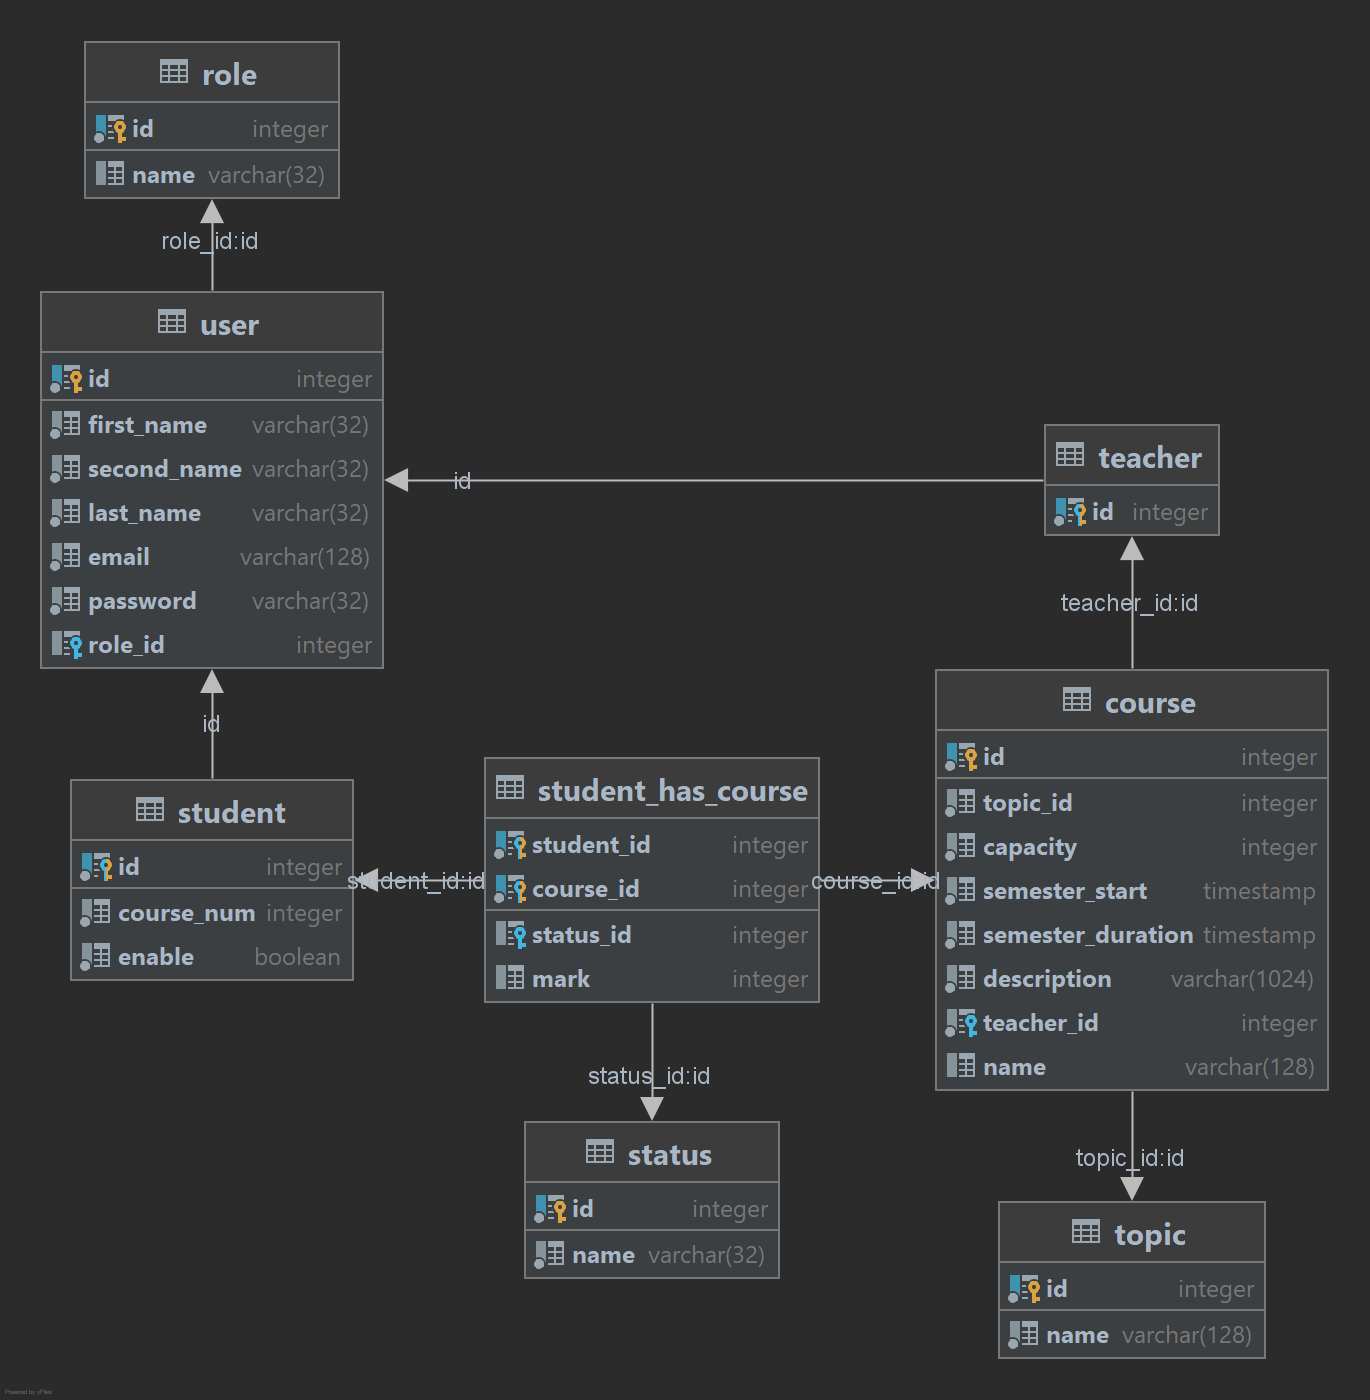
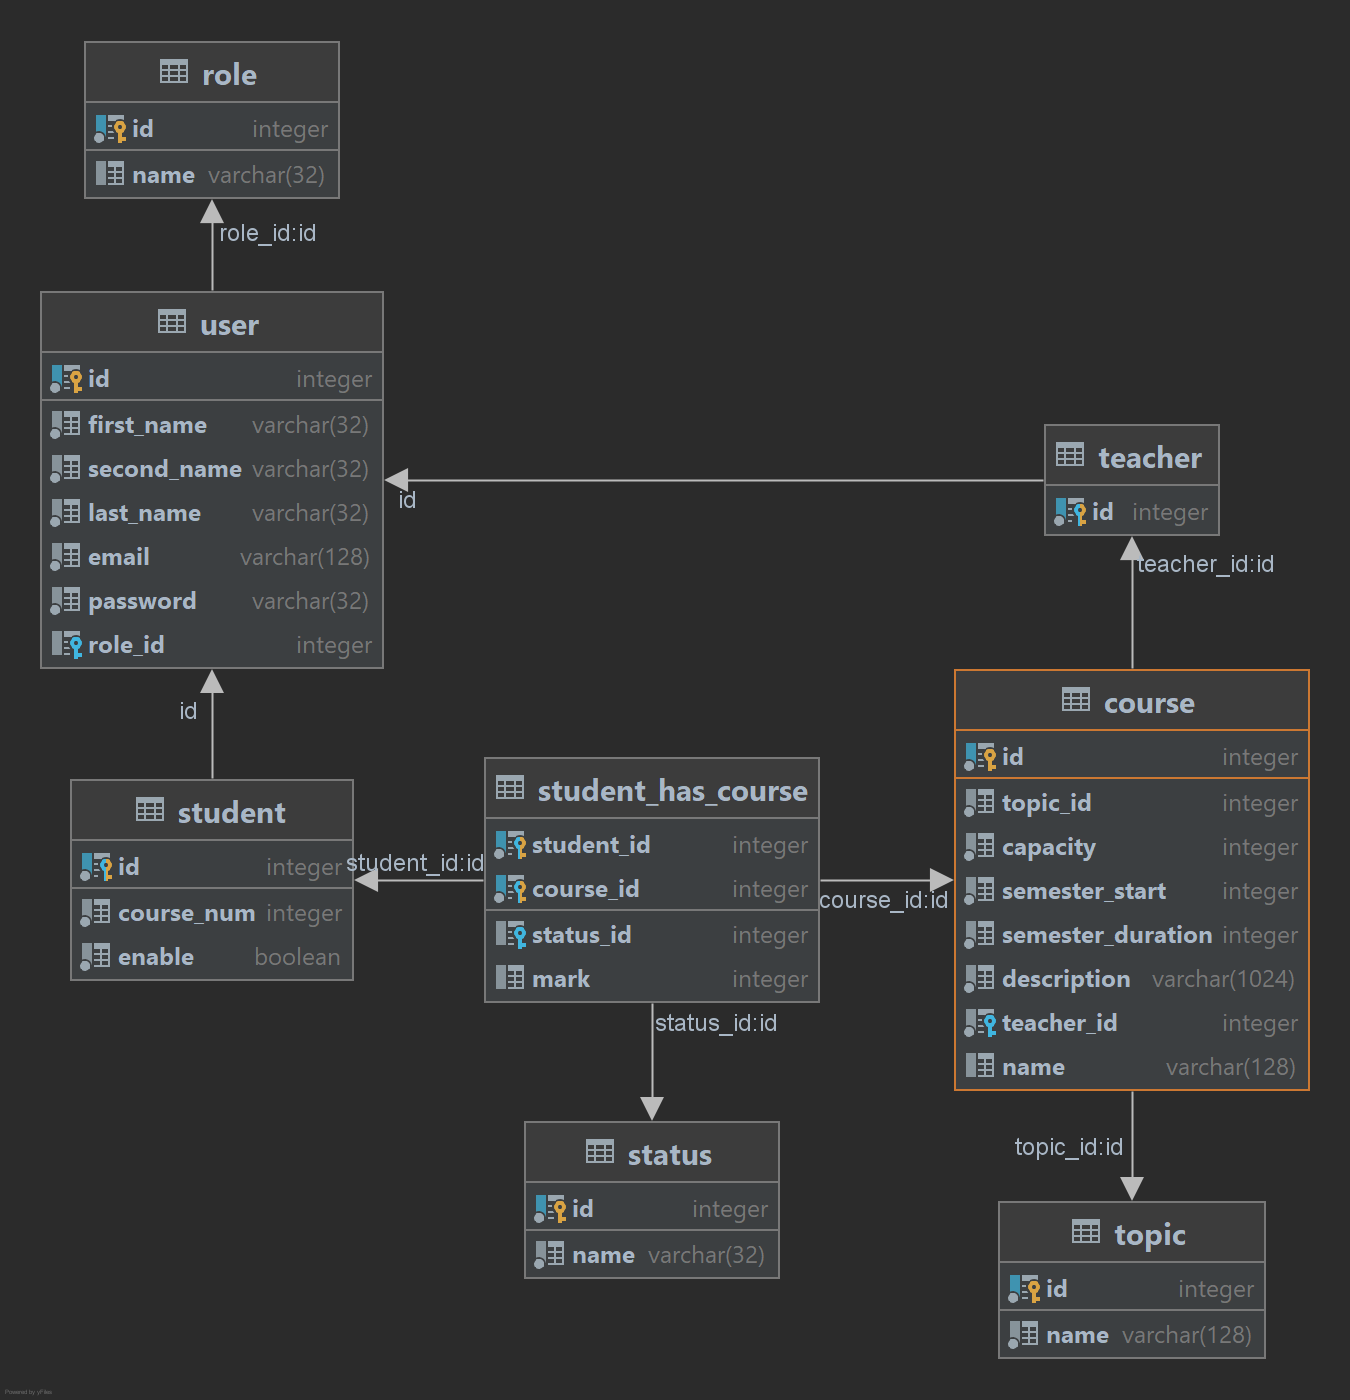
create entety; fix database

diff --git a/faculty/src/main/java/com/example/faculty/entety/Course.java b/faculty/src/main/java/com/example/faculty/entety/Course.java
@@ -1,0 +1,45 @@
+package com.example.faculty.entety;
+
+import lombok.EqualsAndHashCode;
+import lombok.Getter;
+import lombok.Setter;
+import lombok.ToString;
+
+import javax.persistence.*;
+
+@Entity
+@Table(name = "course")
+@Getter
+@Setter
+@ToString
+@EqualsAndHashCode
+public class Course {
+
+    @Id
+    @Column(name = "id")
+    @GeneratedValue(strategy = GenerationType.IDENTITY)
+    private int id;
+
+    @ManyToOne(fetch = FetchType.EAGER)
+    @JoinColumn(name = "topic_id")
+    private Topic topic;
+
+    @Column(name = "capacity")
+    private int capacity;
+
+    @Column(name = "semester_start")
+    private int semesterStart;
+
+    @Column(name = "semester_duration")
+    private int semesterDuration;
+
+    @Column(name = "description")
+    private String description;
+
+    @ManyToOne(fetch = FetchType.EAGER)
+    @JoinColumn(name = "teacher_id")
+    private Teacher teacher;
+
+    @Column(name = "name")
+    private String name;
+}

diff --git a/faculty/src/main/java/com/example/faculty/entety/User.java b/faculty/src/main/java/com/example/faculty/entety/User.java
@@ -1,0 +1,40 @@
+package com.example.faculty.entety;
+
+import lombok.*;
+
+import javax.persistence.*;
+
+@Entity
+@Table(name = "user")
+@Inheritance(strategy=InheritanceType.JOINED)
+@NoArgsConstructor
+@Getter
+@Setter
+@ToString
+@EqualsAndHashCode
+abstract public class User {
+    @Id
+    @Column(name = "id")
+    @GeneratedValue(strategy = GenerationType.IDENTITY)
+    private int id;
+
+    @Column(name = "first_name")
+    private String firstName;
+
+    @Column(name = "second_name")
+    private String secondName;
+
+    @Column(name = "last_name")
+    private String lastName;
+
+    @Column(name = "email")
+    private String email;
+
+    @Column(name = "password")
+    private String password;
+
+    @ManyToOne(fetch = FetchType.EAGER)
+    @JoinColumn(name="role_id")
+    private Role role;
+
+}

diff --git a/faculty/src/main/java/com/example/faculty/entety/Status.java b/faculty/src/main/java/com/example/faculty/entety/Status.java
@@ -1,0 +1,32 @@
+package com.example.faculty.entety;
+
+import lombok.EqualsAndHashCode;
+import lombok.Getter;
+import lombok.Setter;
+import lombok.ToString;
+
+import javax.persistence.*;
+import java.util.List;
+
+@Entity
+@Table(name="status")
+@Getter
+@Setter
+@ToString
+@EqualsAndHashCode
+public class Status {
+
+    @Id
+    @Column(name = "id")
+    @GeneratedValue(strategy = GenerationType.IDENTITY)
+    private int id;
+
+    @Column(name="name")
+    private String name;
+
+    @OneToMany(mappedBy = "status")
+    @ToString.Exclude
+    @EqualsAndHashCode.Exclude
+    private List<StudentHasCourse> studentHasCourses;
+
+}

diff --git a/faculty/src/main/java/com/example/faculty/entety/Topic.java b/faculty/src/main/java/com/example/faculty/entety/Topic.java
@@ -1,0 +1,30 @@
+package com.example.faculty.entety;
+
+import lombok.EqualsAndHashCode;
+import lombok.Getter;
+import lombok.Setter;
+import lombok.ToString;
+
+import javax.persistence.*;
+import java.util.List;
+
+@Entity
+@Table(name="topic")
+@Getter
+@Setter
+@ToString
+@EqualsAndHashCode
+public class Topic {
+    @Id
+    @GeneratedValue(strategy = GenerationType.IDENTITY)
+    @Column(name = "id")
+    private int id;
+
+    @Column(name="name")
+    private String name;
+
+    @OneToMany(mappedBy = "topic")
+    @ToString.Exclude
+    @EqualsAndHashCode.Exclude
+    private List<Course> courses;
+}

diff --git a/faculty/src/main/java/com/example/faculty/entety/Role.java b/faculty/src/main/java/com/example/faculty/entety/Role.java
@@ -1,0 +1,30 @@
+package com.example.faculty.entety;
+
+import lombok.EqualsAndHashCode;
+import lombok.Getter;
+import lombok.Setter;
+import lombok.ToString;
+
+import javax.persistence.*;
+import java.util.List;
+
+@Entity
+@Table(name="role")
+@Getter
+@Setter
+@ToString
+@EqualsAndHashCode
+public class Role {
+    @Id
+    @Column(name = "id")
+    @GeneratedValue(strategy = GenerationType.IDENTITY)
+    private int id;
+
+    @Column(name="name")
+    private String name;
+
+    @OneToMany(mappedBy = "role")
+    @ToString.Exclude
+    @EqualsAndHashCode.Exclude
+    private List<User> users;
+}

diff --git a/faculty/src/main/java/com/example/faculty/entety/StudentHasCourse.java b/faculty/src/main/java/com/example/faculty/entety/StudentHasCourse.java
@@ -1,0 +1,29 @@
+package com.example.faculty.entety;
+
+import lombok.EqualsAndHashCode;
+import lombok.Getter;
+import lombok.Setter;
+import lombok.ToString;
+
+import javax.persistence.*;
+
+@Entity
+@Table(name="student_has_course")
+@Getter
+@Setter
+@ToString
+@EqualsAndHashCode
+public class StudentHasCourse {
+
+    @EmbeddedId
+    private StudentCourseId studentCourseId;
+
+    @Column(name="mark")
+    private int mark;
+
+    @ManyToOne(fetch = FetchType.EAGER)
+    @JoinColumn(name="status_id")
+    private Status status;
+
+}
+

diff --git a/faculty/src/main/java/com/example/faculty/entety/StudentCourseId.java b/faculty/src/main/java/com/example/faculty/entety/StudentCourseId.java
@@ -1,0 +1,26 @@
+package com.example.faculty.entety;
+
+import lombok.EqualsAndHashCode;
+import lombok.Getter;
+import lombok.Setter;
+import lombok.ToString;
+
+import javax.persistence.Column;
+import javax.persistence.Embeddable;
+import java.io.Serializable;
+
+@Embeddable
+@Getter
+@Setter
+@ToString
+@EqualsAndHashCode
+public class StudentCourseId implements Serializable {
+
+    @Column(name="student_id")
+    private int studentId;
+
+    @Column(name="course_id")
+    private int courseId;
+
+}
+

diff --git a/faculty/src/main/java/com/example/faculty/entety/Teacher.java b/faculty/src/main/java/com/example/faculty/entety/Teacher.java
@@ -1,0 +1,23 @@
+package com.example.faculty.entety;
+
+import lombok.EqualsAndHashCode;
+import lombok.Getter;
+import lombok.Setter;
+import lombok.ToString;
+
+import javax.persistence.*;
+import java.util.List;
+
+@Entity
+@Table(name="teacher")
+@Getter
+@Setter
+@ToString
+@EqualsAndHashCode
+public class Teacher extends User{
+
+    @OneToMany(mappedBy = "topic")
+    @ToString.Exclude
+    @EqualsAndHashCode.Exclude
+    private List<Course> courses;
+}

diff --git a/faculty/src/main/java/com/example/faculty/entety/Student.java b/faculty/src/main/java/com/example/faculty/entety/Student.java
@@ -1,0 +1,24 @@
+package com.example.faculty.entety;
+
+import lombok.EqualsAndHashCode;
+import lombok.Getter;
+import lombok.Setter;
+import lombok.ToString;
+
+import javax.persistence.*;
+
+@Entity
+@Table(name="student")
+@Getter
+@Setter
+@ToString
+@EqualsAndHashCode
+public class Student extends User{
+
+    @Column(name="course_num")
+    private int courseNum;
+
+    @Column(name="enable")
+    private boolean enable;
+
+}
